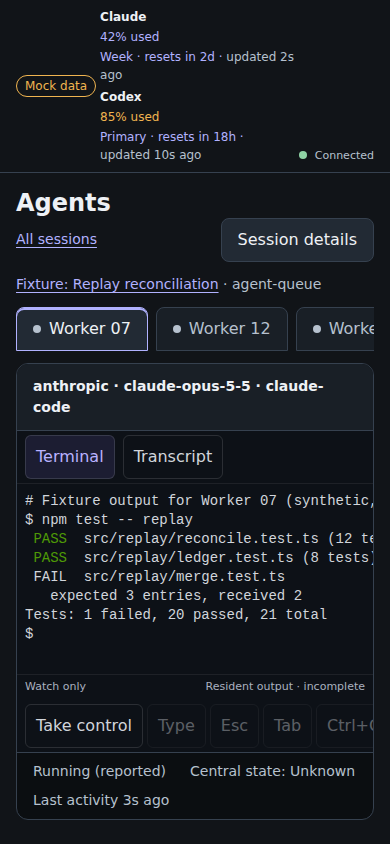
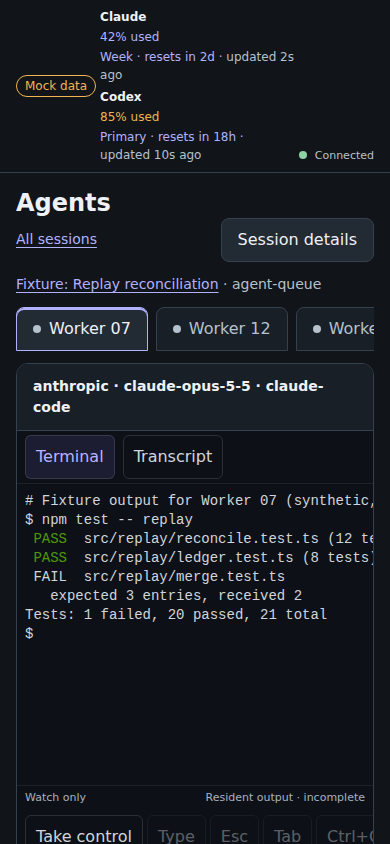
fix(results): keep the discussion panel in normal flow so no controls are clipped
The sticky, internally scrolling side panel clipped its composer (Anchor,
Post comment) once the labelled fixtures filled /results, which failed
tests/supervisor-launcher.spec.ts on desktop-1440. Refresh fixture evidence.

diff --git a/src/features/results/Results.module.css b/src/features/results/Results.module.css
@@ -36,7 +36,7 @@
 .preview .comment { border:0; padding:0; }.preview .comment p { margin-block:4px; }.preview details { font-size:12px; }
 .follow { display:flex; flex-wrap:wrap; align-items:center; gap:var(--space-3); margin-block-start:var(--space-3); }
 .follow label { display:flex; align-items:center; flex-wrap:wrap; gap:var(--space-2); }.follow select { max-inline-size:140px; }
-.discussion { position:sticky; top:var(--space-4); padding:var(--space-4); background:var(--color-panel); border:1px solid var(--color-border); border-radius:var(--radius-panel); min-inline-size:0; max-block-size:calc(100dvh - 140px); overflow:auto; }
+.discussion { align-self:start; padding:var(--space-4); background:var(--color-panel); border:1px solid var(--color-border); border-radius:var(--radius-panel); min-inline-size:0; }
 .panelHeader { display:flex; align-items:start; justify-content:space-between; gap:var(--space-3); margin-block-end:var(--space-3); }.panelHeader h2 { font-size:20px; margin:0; }.panelHeader p { margin-block:8px; }
 .comment { border-block-end:1px solid var(--color-border); padding-block:var(--space-3); overflow-wrap:anywhere; }.comment p { white-space:pre-wrap; }.comment details { font-size:12px; }.comment h4 { font-size:14px; }
 .fields { display:grid; gap:var(--space-3); margin-block:var(--space-4); }.fields fieldset, fieldset.fields { border:0; padding:0; margin:0; min-inline-size:0; display:grid; gap:var(--space-3); }.fields label { display:grid; gap:var(--space-2); font-size:var(--font-size-meta); }.fields input,.fields textarea,.fields select { box-sizing:border-box; inline-size:100%; min-inline-size:0; }.fields textarea { resize:vertical; }.fields details { font-size:12px; overflow-wrap:anywhere; }.fields input[type=checkbox] { inline-size:auto; }.fields input[type=range] { min-block-size:44px; }
